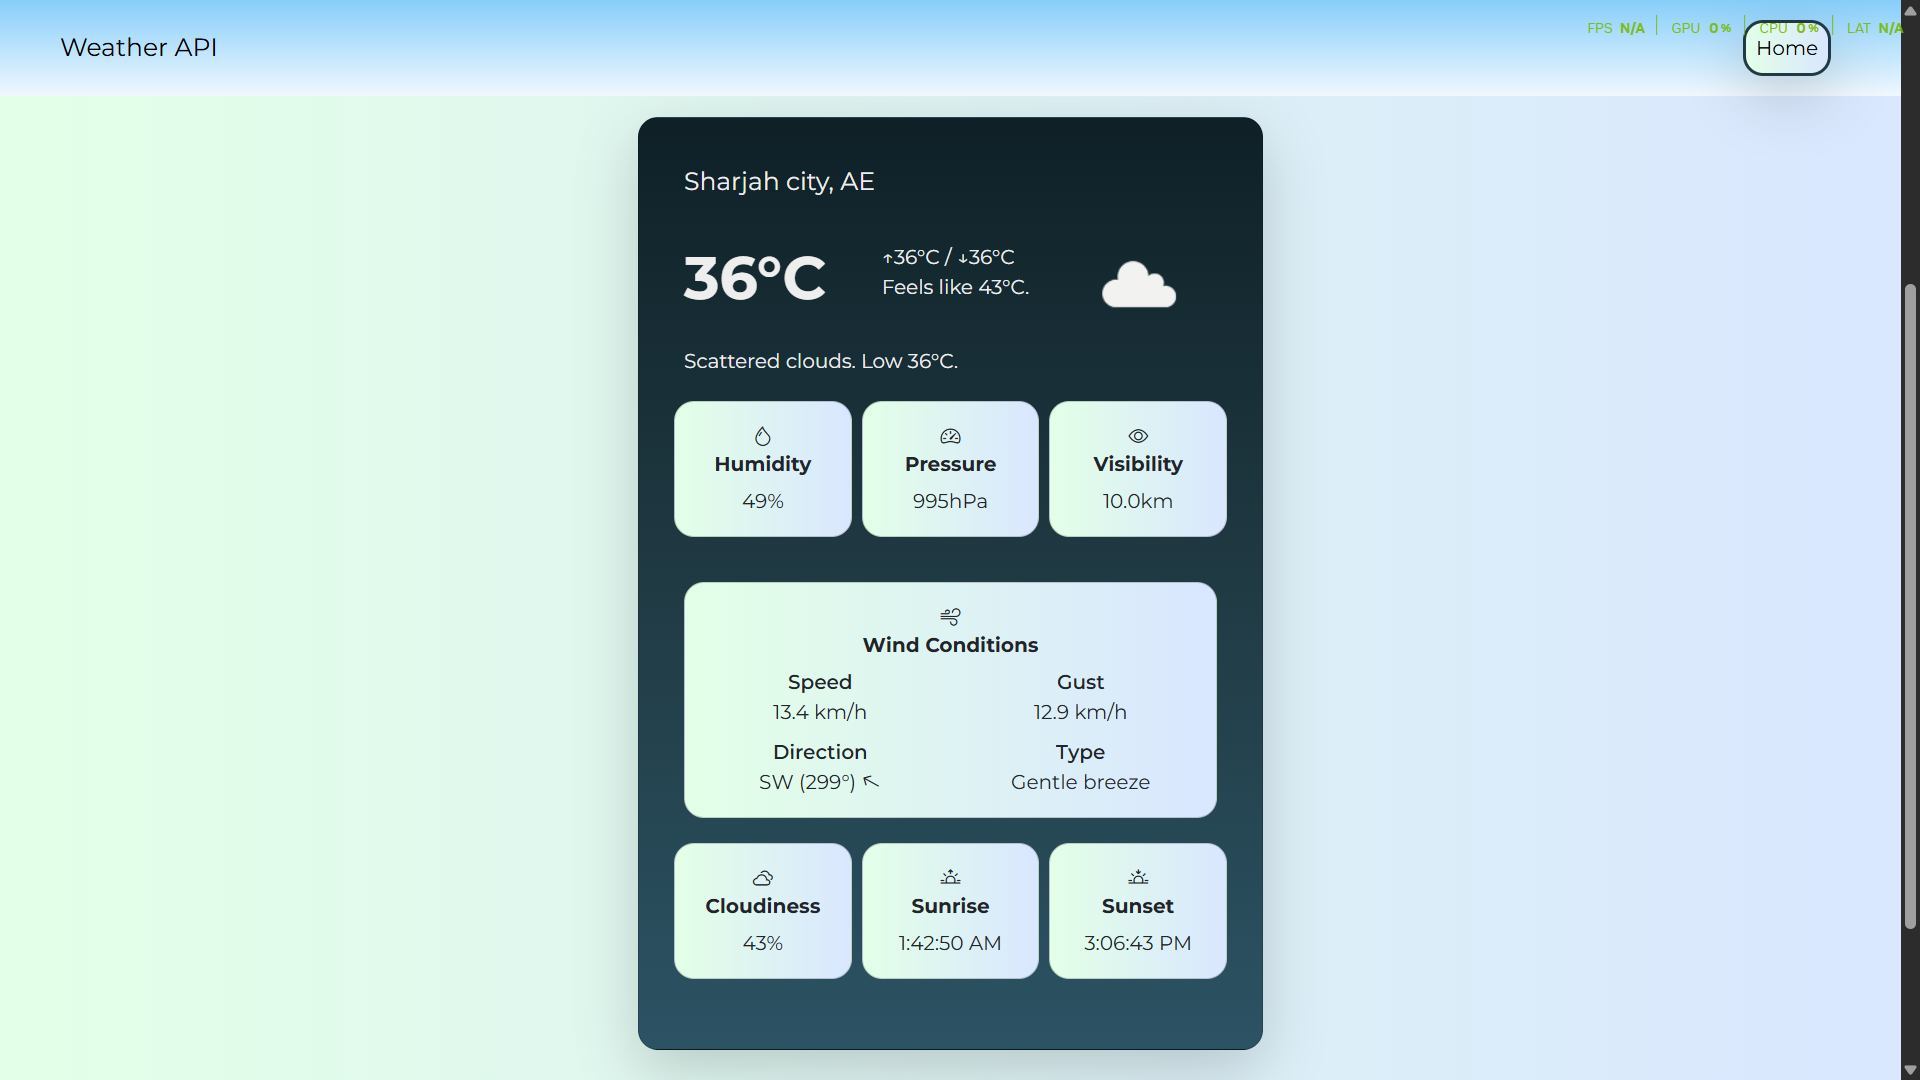
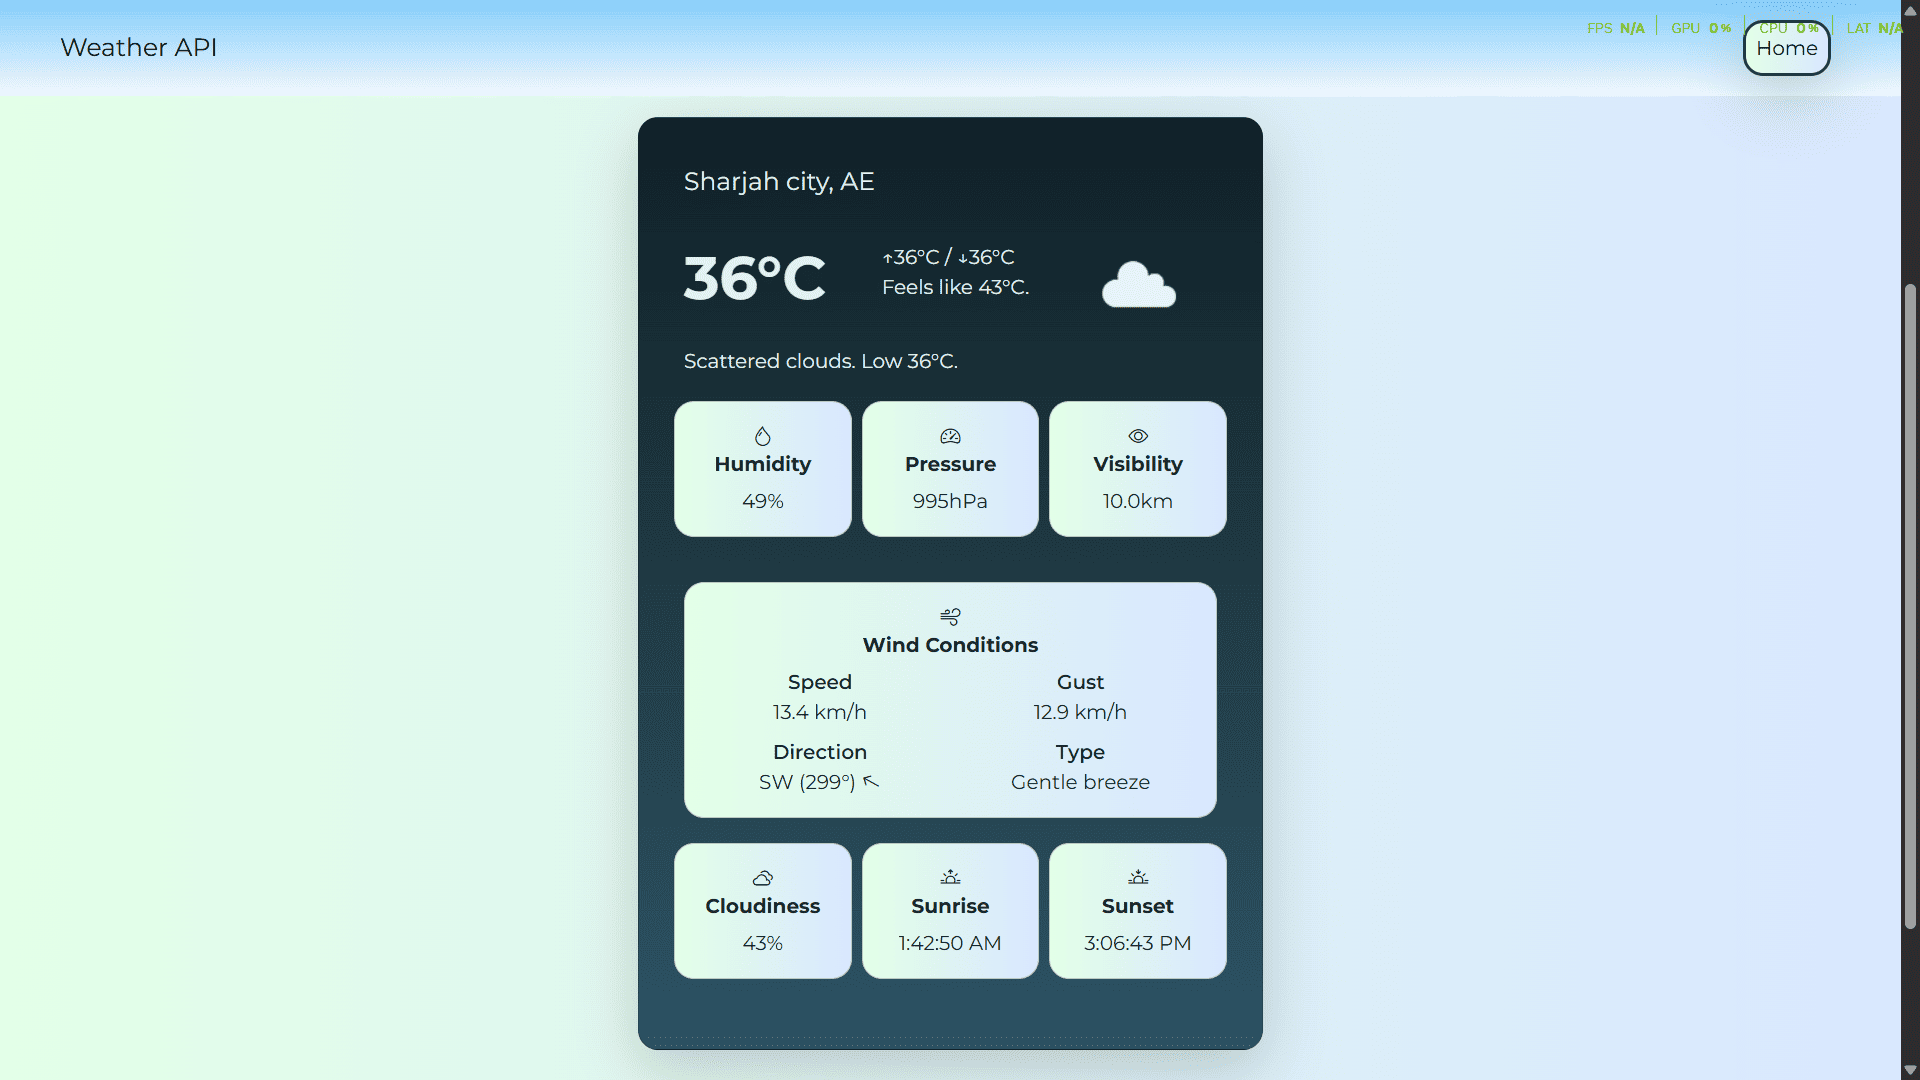
Update fonts and images
-Added 'Roboto' font for headings and 'Lato' font for all other contents
-Compressed images for optimization

Changed region(s): [[0.0312, 0.0306, 0.125, 0.0611], [0.9062, 0.0, 0.9375, 0.0611], [0.375, 0.1528, 0.4062, 0.1833]]

diff --git a/index.html b/index.html
@@ -10,6 +10,9 @@
     <link href="https://cdn.jsdelivr.net/npm/bootstrap@5.3.6/dist/css/bootstrap.min.css" rel="stylesheet" integrity="sha384-4Q6Gf2aSP4eDXB8Miphtr37CMZZQ5oXLH2yaXMJ2w8e2ZtHTl7GptT4jmndRuHDT" crossorigin="anonymous">
     <link rel="stylesheet" href="https://cdn.jsdelivr.net/npm/bootstrap-icons@1.13.1/font/bootstrap-icons.min.css">
     <link href="https://cdnjs.cloudflare.com/ajax/libs/font-awesome/6.5.0/css/all.min.css" rel="stylesheet" />
+    <link rel="preconnect" href="https://fonts.googleapis.com">
+    <link rel="preconnect" href="https://fonts.gstatic.com" crossorigin>
+    <link href="https://fonts.googleapis.com/css2?family=Lato:ital,wght@0,100;0,300;0,400;0,700;0,900;1,100;1,300;1,400;1,700;1,900&family=Roboto:ital,wght@0,100..900;1,100..900&display=swap" rel="stylesheet">
     <link rel="icon" href="./imgs/profile.png" type="image/x-icon">
     <link rel="stylesheet" href="./css/index.css">
 </head>

diff --git a/css/index.css b/css/index.css
@@ -27,6 +27,7 @@
 }
 
 body {
+    font-family: 'Lato';
     background: var(--background-color);
     background: radial-gradient(circle, var(--background-color) 75%, rgba(255, 111, 97, 1) 100%);
     overflow-x: hidden;
@@ -114,6 +115,7 @@ body {
 }
 
 .section-head {
+    font-family: 'Roboto';
     color: var(--primary-color);
 }
 
@@ -126,6 +128,10 @@ body {
 
 .card:hover {
     box-shadow: 0 12px 32px rgba(255, 111, 97, 0.2);
+}
+
+.card-title {
+    font-family: 'Roboto';
 }
 
 #technologies-section {
